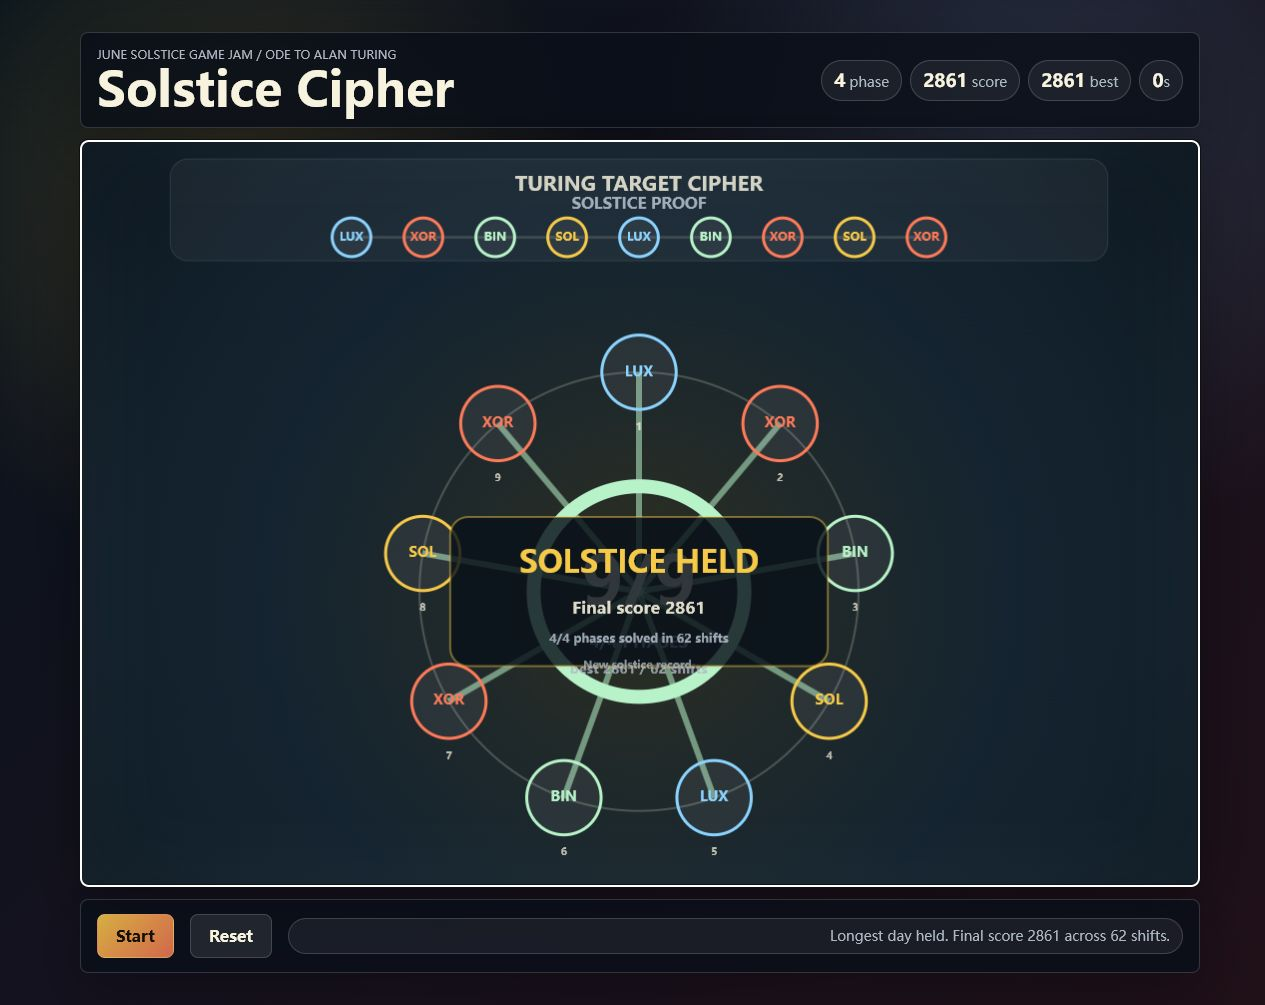
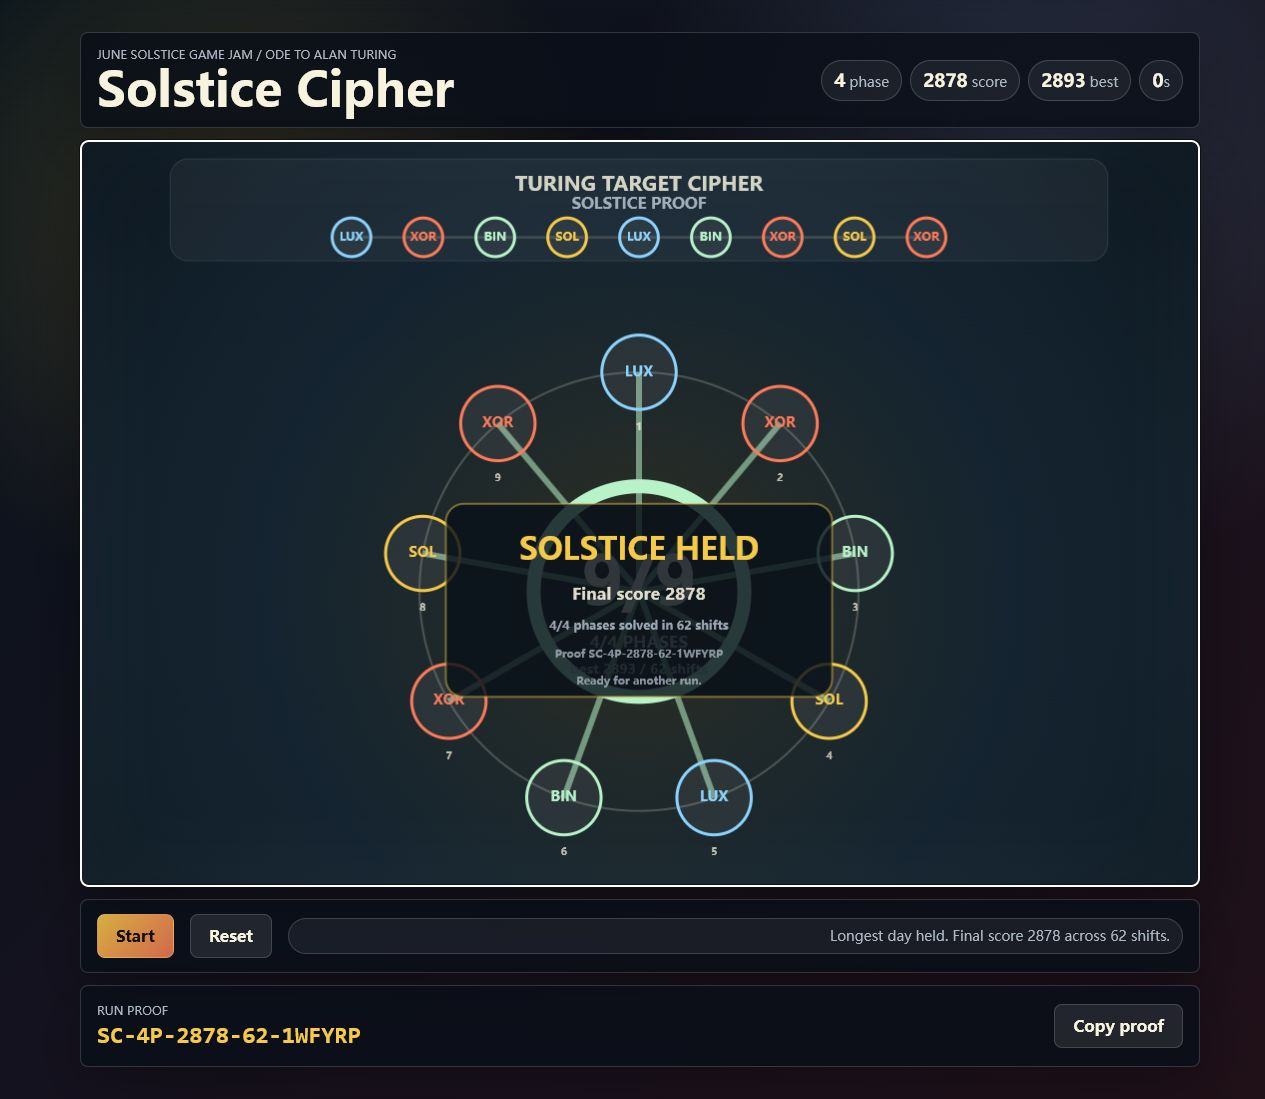
Add Solstice completion proof

Changed region(s): [[0.0617, 0.0308, 0.9557, 0.9562], [0.6474, 0.0308, 0.9249, 0.0925]]

diff --git a/game.js b/game.js
@@ -8,6 +8,9 @@
   const statusLine = document.querySelector("#statusLine");
   const startButton = document.querySelector("#startButton");
   const resetButton = document.querySelector("#resetButton");
+  const proofPanel = document.querySelector("#proofPanel");
+  const proofCode = document.querySelector("#proofCode");
+  const copyProofButton = document.querySelector("#copyProofButton");
 
   const glyphs = ["SOL", "XOR", "LUX", "BIN"];
   const palette = ["#f7c948", "#ff7a59", "#8bd3ff", "#b8f2c8"];
@@ -30,6 +33,7 @@
     shifts: 0,
     solvedPhases: 0,
     complete: false,
+    finalProof: "",
     ring: [],
     target: levels[0].target,
     nodes: [],
@@ -55,6 +59,17 @@
     }
   }
 
+  function buildRunProof() {
+    const payload = `solstice|${levels.length}|${state.score}|${state.shifts}|${state.solvedPhases}`;
+    let hash = 2166136261;
+    for (const char of payload) {
+      hash ^= char.charCodeAt(0);
+      hash = Math.imul(hash, 16777619);
+    }
+    const suffix = (hash >>> 0).toString(36).toUpperCase().padStart(6, "0").slice(0, 6);
+    return `SC-${state.solvedPhases}P-${state.score}-${state.shifts}-${suffix}`;
+  }
+
   function seedLevel(index) {
     const level = levels[index];
     if (!level) {
@@ -62,6 +77,7 @@
       state.running = false;
       state.timeLeft = 0;
       storeBestScore(state.score);
+      state.finalProof = buildRunProof();
       state.message = `Longest day held. Final score ${state.score} across ${state.shifts} shifts.`;
       updateHud();
       return;
@@ -69,6 +85,7 @@
     state.target = level.target.slice();
     state.ring = state.target.map((value, i) => (value + 1 + (i % 3)) % glyphs.length);
     state.timeLeft = level.seconds;
+    state.finalProof = "";
     state.message = index === 0 ? "Decode the Turing wheel before nightfall." : `${phaseNames[index]} unlocked.`;
     updateHud();
   }
@@ -79,6 +96,11 @@
     bestLabel.textContent = String(state.bestScore);
     timeLabel.textContent = String(Math.max(0, Math.ceil(state.timeLeft)));
     statusLine.textContent = state.message;
+    if (proofPanel && proofCode && copyProofButton) {
+      proofPanel.hidden = !state.complete;
+      proofCode.textContent = state.finalProof;
+      copyProofButton.disabled = !state.finalProof;
+    }
   }
 
   function resizeCanvas() {
@@ -264,23 +286,24 @@
     ctx.fillStyle = "rgba(7,16,24,0.82)";
     ctx.strokeStyle = "rgba(247,201,72,0.45)";
     ctx.lineWidth = 2;
-    roundRect(ctx, cx - ringRadius * 0.86, cy - ringRadius * 0.34, ringRadius * 1.72, ringRadius * 0.68, 18);
+    roundRect(ctx, cx - ringRadius * 0.88, cy - ringRadius * 0.4, ringRadius * 1.76, ringRadius * 0.88, 18);
     ctx.fill();
     ctx.stroke();
     ctx.textAlign = "center";
     ctx.textBaseline = "middle";
     ctx.fillStyle = "#f7c948";
     ctx.font = `800 ${Math.max(22, ringRadius * 0.14)}px ui-sans-serif, system-ui`;
-    ctx.fillText("SOLSTICE HELD", cx, cy - ringRadius * 0.12);
+    ctx.fillText("SOLSTICE HELD", cx, cy - ringRadius * 0.18);
     ctx.fillStyle = "rgba(247,243,223,0.9)";
     ctx.font = `700 ${Math.max(14, ringRadius * 0.075)}px ui-sans-serif, system-ui`;
-    ctx.fillText(`Final score ${state.score}`, cx, cy + ringRadius * 0.08);
+    ctx.fillText(`Final score ${state.score}`, cx, cy + ringRadius * 0.02);
     ctx.fillStyle = "rgba(174,184,197,0.9)";
     ctx.font = `600 ${Math.max(12, ringRadius * 0.055)}px ui-sans-serif, system-ui`;
-    ctx.fillText(`${state.solvedPhases}/${levels.length} phases solved in ${state.shifts} shifts`, cx, cy + ringRadius * 0.22);
+    ctx.fillText(`${state.solvedPhases}/${levels.length} phases solved in ${state.shifts} shifts`, cx, cy + ringRadius * 0.16);
     ctx.fillStyle = "rgba(174,184,197,0.78)";
     ctx.font = `600 ${Math.max(11, ringRadius * 0.046)}px ui-sans-serif, system-ui`;
-    ctx.fillText(state.score >= state.bestScore ? "New solstice record." : "Ready for another run.", cx, cy + ringRadius * 0.34);
+    ctx.fillText(`Proof ${state.finalProof}`, cx, cy + ringRadius * 0.29);
+    ctx.fillText(state.score >= state.bestScore ? "New solstice record." : "Ready for another run.", cx, cy + ringRadius * 0.41);
     ctx.restore();
   }
 
@@ -372,6 +395,7 @@
     state.shifts = 0;
     state.solvedPhases = 0;
     state.complete = false;
+    state.finalProof = "";
     state.particles = [];
     state.lastTick = 0;
     seedLevel(0);
@@ -387,6 +411,7 @@
     state.shifts = 0;
     state.solvedPhases = 0;
     state.complete = false;
+    state.finalProof = "";
     state.particles = [];
     seedLevel(0);
     state.message = "Decode the Turing wheel before nightfall.";
@@ -417,6 +442,16 @@
   });
   startButton.addEventListener("click", startGame);
   resetButton.addEventListener("click", resetGame);
+  copyProofButton.addEventListener("click", async () => {
+    if (!state.finalProof) return;
+    try {
+      await navigator.clipboard.writeText(state.finalProof);
+      state.message = "Run proof copied.";
+    } catch {
+      state.message = `Run proof ready: ${state.finalProof}`;
+    }
+    updateHud();
+  });
 
   resizeCanvas();
   seedLevel(0);

diff --git a/styles.css b/styles.css
@@ -52,7 +52,8 @@ body {
 }
 
 .hud,
-.controls {
+.controls,
+.proof-panel {
   display: flex;
   align-items: center;
   justify-content: space-between;
@@ -70,6 +71,11 @@ body {
 
 .controls {
   margin-top: 12px;
+}
+
+.proof-panel {
+  margin-top: 12px;
+  min-height: 82px;
 }
 
 .kicker {
@@ -105,6 +111,16 @@ h1 {
 .stats strong {
   color: var(--ink);
   font-size: 18px;
+}
+
+.proof-code {
+  margin: 0;
+  color: var(--accent);
+  font-family: "SFMono-Regular", Consolas, "Liberation Mono", monospace;
+  font-size: clamp(16px, 3vw, 24px);
+  font-weight: 800;
+  letter-spacing: 0;
+  overflow-wrap: anywhere;
 }
 
 canvas {
@@ -149,7 +165,8 @@ button:focus-visible {
 
 @media (max-width: 720px) {
   .hud,
-  .controls {
+  .controls,
+  .proof-panel {
     align-items: flex-start;
     flex-direction: column;
   }
@@ -167,6 +184,10 @@ button:focus-visible {
     grid-column: 1 / -1;
     width: 100%;
     text-align: left;
+  }
+
+  .proof-panel button {
+    width: 100%;
   }
 
   canvas {

diff --git a/index.html b/index.html
@@ -36,6 +36,14 @@
         <button id="resetButton" type="button">Reset</button>
         <div id="statusLine" class="status">Align the ring before nightfall.</div>
       </div>
+
+      <section id="proofPanel" class="proof-panel" aria-live="polite" hidden>
+        <div>
+          <p class="kicker">Run proof</p>
+          <p id="proofCode" class="proof-code"></p>
+        </div>
+        <button id="copyProofButton" type="button">Copy proof</button>
+      </section>
     </section>
   </main>
   <script src="game.js"></script>

diff --git a/smoke.html b/smoke.html
@@ -165,11 +165,14 @@
       const statusLine = doc.querySelector("#statusLine");
       const scoreLabel = doc.querySelector("#scoreLabel");
       const bestLabel = doc.querySelector("#bestLabel");
+      const proofPanel = doc.querySelector("#proofPanel");
+      const proofCode = doc.querySelector("#proofCode");
 
       addCheck("canvas is present", Boolean(canvas));
       addCheck("start button is present", Boolean(startButton));
       addCheck("status line is present", Boolean(statusLine));
       addCheck("best score label is present", Boolean(bestLabel));
+      addCheck("run proof panel is present", Boolean(proofPanel));
 
       startButton.click();
       await sleep(120);
@@ -186,6 +189,8 @@
       addCheck("final score is positive", Number.isFinite(finalScore) && finalScore > 0);
       addCheck("best score records the completed run", Number.isFinite(bestScore) && bestScore >= finalScore);
       addCheck("final status reports shift count", finalText.includes("shifts"));
+      addCheck("completion reveals run proof", proofPanel.hidden === false);
+      addCheck("run proof encodes phases, score, shifts, and checksum", /^SC-4P-\d+-\d+-[0-9A-Z]{6}$/.test(proofCode.textContent));
 
       status.textContent = `PASS - ${finalText}`;
       status.classList.add("pass");

diff --git a/judge.html b/judge.html
@@ -115,14 +115,14 @@
 
     <section class="actions" aria-label="Judge actions">
       <a class="action" href="./"><strong>Play</strong><span>Open the playable static game with mouse, touch, and number-key controls.</span></a>
-      <a class="action" href="smoke.html"><strong>Run Smoke Test</strong><span>Starts the game in an iframe, solves all phases, and verifies final score/status.</span></a>
+      <a class="action" href="smoke.html"><strong>Run Smoke Test</strong><span>Starts the game in an iframe, solves all phases, and verifies final score/status plus run proof.</span></a>
       <a class="action" href="README.md"><strong>Read README</strong><span>Review controls, theme fit, media assets, and publishing status.</span></a>
     </section>
 
     <section class="grid" aria-label="Judge notes">
       <div class="card"><strong>Theme Fit</strong><p>The June solstice becomes the core timer: daylight is the player's resource, nightfall ends the run, and the final screen celebrates holding the longest day.</p></div>
       <div class="card"><strong>Turing Fit</strong><p>The puzzle uses rotor-like alignment, binary and XOR glyph language, and target-versus-ring matching without pretending to simulate a historical machine.</p></div>
-      <div class="card"><strong>Completed Loop</strong><p>Four named phases, score carry-over, streak scoring, shift counting, keyboard support, mobile layout, GIF preview, and final run summary are ready.</p></div>
+      <div class="card"><strong>Completed Loop</strong><p>Four named phases, score carry-over, streak scoring, shift counting, copyable run proof, keyboard support, mobile layout, GIF preview, and final run summary are ready.</p></div>
       <div class="card"><strong>Publication Boundary</strong><p>No DEV post, public repo, or prize claim exists yet. Use <a href="PUBLISHING.md">PUBLISHING.md</a> after the account owner creates or approves public hosting.</p></div>
     </section>
   </main>

diff --git a/README.md b/README.md
@@ -25,7 +25,7 @@ http://127.0.0.1:8781/
 
 Solstice Cipher is a compact browser puzzle game for the June solstice theme and an ode to Alan Turing's code-breaking legacy. The player rotates a Turing wheel of solar, XOR, light, and binary glyphs to match the target cipher before time runs out. It is intentionally static and self-contained so it can be hosted on GitHub Pages if the user authorizes public publishing.
 
-The current build now has four named phases, score carry-over, streak scoring, shift counting, a local best-score readout, and a final replay screen that summarizes the run. That gives judges a complete loop in one short play session instead of an open-ended prototype.
+The current build now has four named phases, score carry-over, streak scoring, shift counting, a local best-score readout, a shareable completion proof code, and a final replay screen that summarizes the run. That gives judges a complete loop in one short play session instead of an open-ended prototype.
 
 ## Controls
 
@@ -39,7 +39,7 @@ The current build now has four named phases, score carry-over, streak scoring, s
 - Desktop and 390px mobile browser checks pass with no console errors or horizontal overflow.
 - Canvas screenshots are nonblank and visually varied.
 - Ring-node click interaction and keyboard node rotation are both covered by local browser checks.
-- A four-phase ending state shows final score, local best score, solved phase count, and total shifts instead of looping forever.
+- A four-phase ending state shows final score, local best score, solved phase count, total shifts, and a copyable run proof instead of looping forever.
 
 ## Local Media Assets
 
@@ -53,7 +53,7 @@ The current build now has four named phases, score carry-over, streak scoring, s
 ## Judge Proof
 
 - `judge.html`: one-page judge pack with play link, smoke-test link, theme fit, and publication boundary.
-- `smoke.html`: browser self-test that starts the game in an iframe, solves all four phases through public keyboard controls, and verifies the final score/status.
+- `smoke.html`: browser self-test that starts the game in an iframe, solves all four phases through public keyboard controls, and verifies the final score/status plus the completion proof code.
 
 ## Public Publishing
 

diff --git a/dev-post-draft.md b/dev-post-draft.md
@@ -17,7 +17,7 @@ The game borrows the feeling of rotor alignment and cipher checking rather than 
 - Mouse, touch, and number-key controls.
 - Multiple timed phases with score carry-over.
 - Time pressure, per-signal points, streak bonuses, small time penalties for exploratory shifts, and a final score state after four phases.
-- Four named phases, shift counting, a local best-score readout, and an end screen that summarizes the run for quick judging.
+- Four named phases, shift counting, a local best-score readout, a deterministic run proof code, and an end screen that summarizes the run for quick judging.
 - No backend, API key, account integration, or private data.
 
 ## Demo Assets
@@ -45,7 +45,7 @@ The June solstice is the longest day in the northern hemisphere. The game turns 
 
 ## Technical Notes
 
-The game uses a single canvas and deterministic level definitions. The target cipher and player ring are arrays of phase values. Matching all phase values advances the game and awards time-weighted score, with a streak bonus for consecutive solved phases. The final screen reports solved phases, local best score, and total shifts so a judge can tell whether the run was a clean solve or a scrappy late save.
+The game uses a single canvas and deterministic level definitions. The target cipher and player ring are arrays of phase values. Matching all phase values advances the game and awards time-weighted score, with a streak bonus for consecutive solved phases. The final screen reports solved phases, local best score, total shifts, and a copyable run proof code so a judge can tell whether the run was a clean solve or a scrappy late save.
 
 ## Next
 

diff --git a/submission-checklist.md b/submission-checklist.md
@@ -22,7 +22,7 @@ Status: local package is GitHub Pages-ready. Not published and not submitted.
   - `node --check game.js`
   - Desktop browser check: start, number-key rotation, no console errors, no horizontal overflow.
   - Mobile 390px browser check: no console errors, no horizontal overflow.
-- Four-phase completion check: final state shows `Longest day held. Final score ... across ... shifts.` and the canvas finale reports solved phases, local best score, and total shifts.
+- Four-phase completion check: final state shows `Longest day held. Final score ... across ... shifts.` and the canvas finale reports solved phases, local best score, total shifts, and a deterministic run proof.
 
 ## Before Publishing
 

diff --git a/PUBLISHING.md b/PUBLISHING.md
@@ -59,5 +59,6 @@ The account owner handles DEV login, final post, prize claim, payout, tax, and K
 - [ ] Public smoke test returns `PASS`.
 - [ ] Public try link returns HTTP 200.
 - [ ] Public try link starts the game.
+- [ ] Completed public run reveals a copyable `SC-4P-...` run proof.
 - [ ] DEV post contains the try link, source link, and clear challenge fit.
 - [ ] No account secrets, API keys, payment details, tax data, KYC data, or private contact details are included.